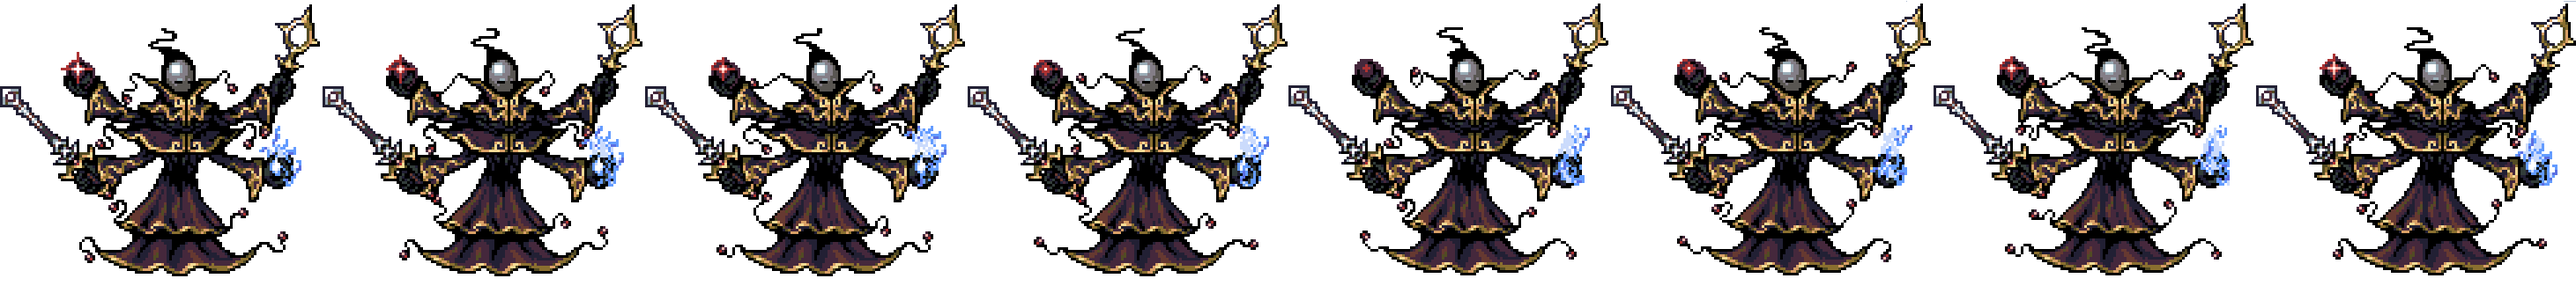
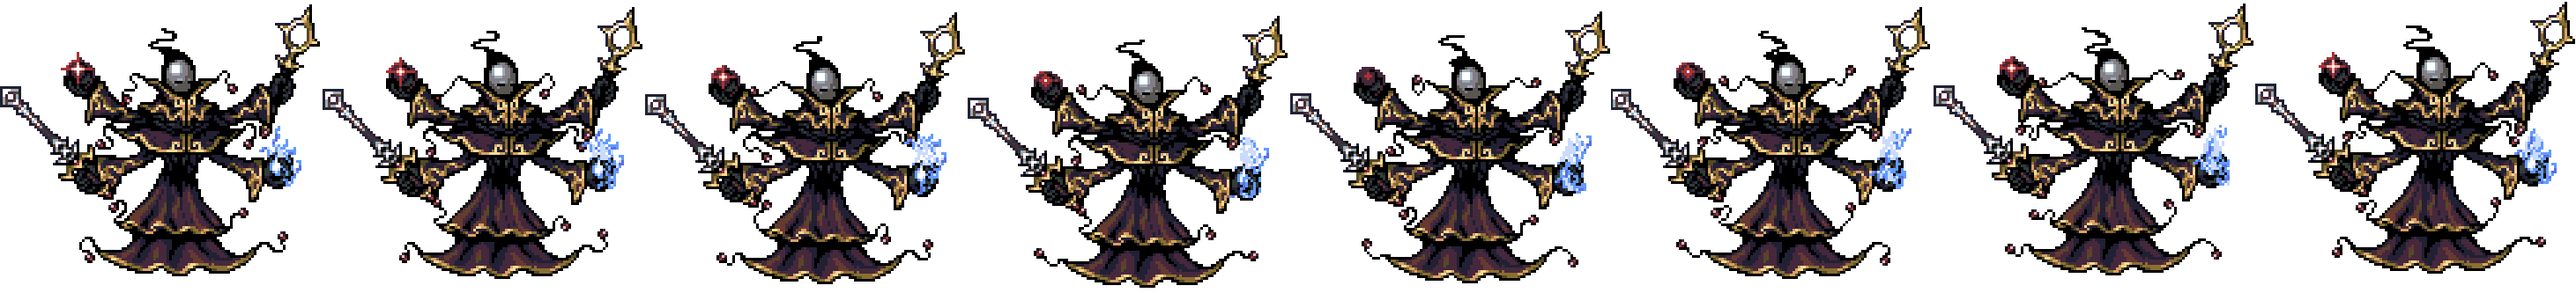
added boss die scene

diff --git a/src/main/resources/static/CSS/BossDie.css b/src/main/resources/static/CSS/BossDie.css
@@ -1,5 +1,5 @@
 body {
-    background: url(/images/throneroom.jpg);
+    background: url(/images/bossdiebackground.png);
     background-size: cover; 
 }
 .dialogue_box {
@@ -44,31 +44,20 @@ body {
 }
 
 .boss {
-	margin-left: 34%;
-	margin-top:-200px;
+	margin-left: 42%;
+	margin-top:-170px;
 	position: fixed;
-  width: 365px;
-  height: 333px;
-  background: url('/images/boss.png') left center;
-  animation: play 1.5s steps(8) infinite;
+  width: 218px;
+  height: 295px;
+  background: url('/images/bossdie.png') left center;
+  animation: play 1.5s steps(4) infinite;
  z-index: 5;
   
 }
 
-.demon {
-	margin-left: 15%;
-	margin-top:-70px;
-	position: fixed;
-  width: 242px;
-  height: 133px;
-  background: url('/images/monster1.png') left center;
-  filter: alpha(opacity=0);  
-	-webkit-animation: 24s ease 0s normal forwards .66 fadein;
-    animation: 24s ease 0s normal forwards .66 fadein;
- z-index: 6;
 
-}
-
+ 
+ 
 button {
 	background-color: #D4AF6A;
 
@@ -94,13 +83,22 @@ button:hover {
 	margin-left: 10%;
 	height: 400px;
 	margin-top: -200px;
-	-webkit-animation:spin 2s linear infinite;
-}
 
-@-webkit-keyframes spin { 
-    100% { 
-        transform: rotate(360deg);
-    } 
+ -webkit-animation-duration: 5s;animation-duration: 5s;
+ -webkit-animation-fill-mode: both;animation-fill-mode: both;
+  -webkit-animation-name: fadeOut;
+            animation-name: fadeOut;
+         }
+         
+ 
+         
+         @keyframes fadeOut {
+            0% {opacity: 1;}
+            100% {opacity: 0;}
+         }
+         
+   
+
 }
 /*.knight {
     position: fixed;
@@ -119,26 +117,7 @@ button:hover {
 
 * { color:black; text-decoration: none;}
 @keyframes play {
-   100% { background-position: -2923px; }
+   100% { background-position: -870px; }
 }
 
-@keyframes fadein{
-    0% { opacity:0; }
-    10% { opacity:.1; }
-    20% { opacity:.2; }
-    30% { opacity:.3; }
-    40% { opacity:.4; }
-    50% { opacity:.5; }
-    60% { opacity:.6; }
-    
-}
-
-@-webkit-keyframes fadein{
-    0% { opacity:0; }
-    10% { opacity:.1; }
-    20% { opacity:.2; }
-    30% { opacity:.3; }
-    40% { opacity:.4; }
-    50% { opacity:.5; }
-    60% { opacity:.6; }
-}
+ 

diff --git a/src/main/resources/static/BossDie.html b/src/main/resources/static/BossDie.html
@@ -2,7 +2,7 @@
 <html>
 <head>
     <title>Boss Battle!</title>
-    <link rel="stylesheet" type="text/css" href="/CSS/Boss.css">
+    <link rel="stylesheet" type="text/css" href="/CSS/BossDie.css">
 
  <link href="https://fonts.googleapis.com/css?family=VT323" rel="stylesheet"> 
 </head>
@@ -12,7 +12,7 @@
    		<div class="textbox">                
 
    			<h1>
-   			 <a class="typewrite" data-period="2000" data-type='[ "I`m impressed that you`ve made it this far, knight, but this is the end of the road." ]'> 
+   			 <a class="typewrite" data-period="2000" data-type='[ "No!!! My one weakness... java programmers..." ]'> 
    			 <span class="wrap"></span>
  			 </a>
  			 </h1>
@@ -24,10 +24,9 @@
 
 
  <div class="container">
-<a href="/BossDie.html"><button class = "continue">Continue</button></a>
+<a href="/GameOver.html"><button class = "continue">Continue</button></a>
 </div>
-	<div class="demon">
-	</div>
+ 
 	<div class="boss">
 	</div>
 	<div class="knight">
